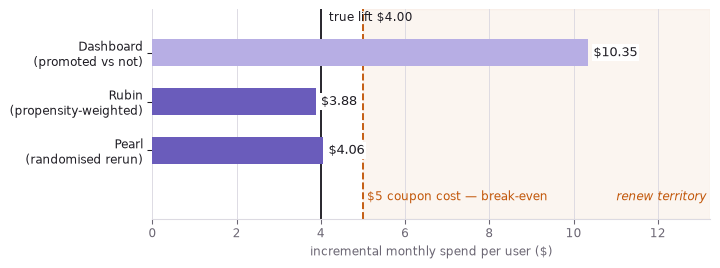
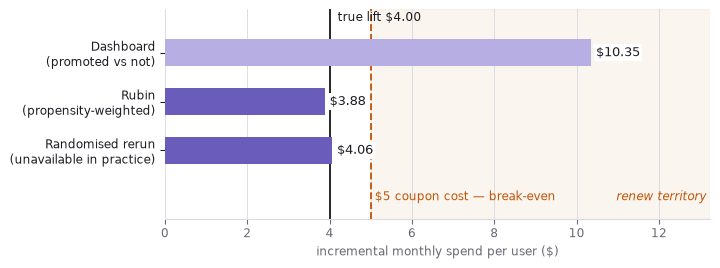
fix(posts): stop the causality post overstating its own numbers
Review caught seven claims running ahead of the simulation. The two that
mattered: the coupon's cost was stated per redemption but compared against
lift per user sent, and the $10k credited to a blanket rollout is sampling
noise around a true effect of exactly zero. The rest tighten estimates
stated as facts, identification claimed where efficiency was meant, and a
chart labelling a randomised rerun as Pearl's estimator.

diff --git a/docs/posts/causality-from-toddlers-to-do-calculus/index.html b/docs/posts/causality-from-toddlers-to-do-calculus/index.html
@@ -250,13 +250,13 @@ pre > code.sourceCode > span > a:first-child::before { text-decoration: underlin
 <section id="time-is-causalitys-most-reliable-symptom-not-its-essence" class="level2">
 <h2 class="anchored" data-anchor-id="time-is-causalitys-most-reliable-symptom-not-its-essence">Time is causality’s most reliable symptom, not its essence</h2>
 <p>The toolkit leans hard on one regularity: causes come first. Hume built his account on it, defining a cause as constant conjunction plus temporal priority plus contiguity. Modern accounts drop it. Pearl’s causes are fixed by structural equations, Woodward’s by what stays invariant under intervention; in both the essential relation is dependence — change the cause, the effect follows — with time order nowhere in the definition.</p>
-<p>The gap shows where nothing waits. A book resting on a table causes the tabletop’s deformation <em>now</em>: pressure and sag are simultaneous, as equilibrium models in economics assume. Temporal order remains the best-behaved symptom of causation we have, and every method below exploits it. It just isn’t what causation is.</p>
+<p>The gap shows where nothing waits. A book resting on a table causes the tabletop’s deformation <em>now</em>: pressure and sag are simultaneous, as equilibrium models in economics assume. Temporal order remains the best-behaved symptom of causation we have, and the methods below lean on it in one specific place — deciding which variables count as pre-treatment, and so which are safe to adjust for. It just isn’t what causation is.</p>
 </section>
 <section id="two-dashboard-numbers-and-the-budget-riding-on-each" class="level2">
 <h2 class="anchored" data-anchor-id="two-dashboard-numbers-and-the-budget-riding-on-each">Two dashboard numbers, and the budget riding on each</h2>
 <p>Dependence under intervention is the thing to measure, then, and measuring it is expensive enough that nobody funds it out of curiosity. Everything below runs on one company and two numbers somebody is about to act on.</p>
 <p>Picture a consumer subscription app: roughly two million monthly actives, about $30 of spend per user per month across subscriptions and in-app add-ons, and a growth team three weeks out from quarterly planning.</p>
-<p><strong>The promotion.</strong> Marketing sent a $5-off coupon to 400,000 users across the November and December window. The coupon is not free — it costs roughly $5 of margin in every month a user redeems it — so finance’s rule for renewing the $2M annual promo budget is a single comparison: the programme pays for itself only if it <em>adds</em> more than $5 of monthly spend per user. Treating incremental spend as near-pure margin is generous to the promo; it is the assumption its defenders would choose, and the promo will lose anyway. The dashboard says promoted users spend $10.35 more per month.</p>
+<p><strong>The promotion.</strong> Marketing sent a $5-off coupon to 400,000 users across the November and December window. It applies automatically at checkout, so it costs roughly $5 of margin per recipient per month whether or not the recipient noticed it — which makes finance’s rule for renewing the $2M annual promo budget a single comparison: the programme pays for itself only if it <em>adds</em> more than $5 of monthly spend per user <em>sent</em>. Treating incremental spend as near-pure margin is generous to the promo; it is the assumption its defenders would choose, and the promo will lose anyway. The dashboard says promoted users spend $10.35 more per month.</p>
 <p><strong>The feature.</strong> “Collections” — saved, curated lists — shipped to everyone four months ago, and about half the userbase has touched it. Three decisions ride on its measured lift: whether next quarter’s engineering goes into deepening it or into the checkout redesign, whether the onboarding flow spends one of its few slots pushing it, and, quietly, which team gets credited at review time. The dashboard says adopters spend $9.26 more per month.</p>
 <p>Both numbers are correct, in the sense that the SQL is correct. Neither is the number either decision needs.</p>
 <p>No real company is being reported on here: every figure below comes from a simulation whose code is on the page. That is not a convenience, it is the only way to grade the methods. The quantity all of them estimate — what a user would have spent under the treatment they did not get — is missing from every real dataset by construction, so a real dataset can tell you which estimator you <em>like</em> but never which one is right. Writing the true effect down first and then hiding it is the only experiment available.</p>
@@ -333,7 +333,7 @@ Confounder
 <section id="pearl-the-surgery-deletes-the-arrow-into-the-promo" class="level3">
 <h3 class="anchored" data-anchor-id="pearl-the-surgery-deletes-the-arrow-into-the-promo">Pearl: the surgery deletes the arrow into the promo</h3>
 <p>The graph is a claim, not a result, so the way to test it is to build a world that obeys it. Below a promo truly adds $4 of monthly spend. We run the same world twice, changing only who gets the promo: first marketing chooses, then a coin does.</p>
-<div id="e4b447c5" class="cell" data-execution_count="1">
+<div id="5a934428" class="cell" data-execution_count="1">
 <details class="code-fold">
 <summary>Code</summary>
 <div class="sourceCode cell-code" id="cb1"><pre class="sourceCode python code-with-copy"><code class="sourceCode python"><span id="cb1-1"><a href="#cb1-1" aria-hidden="true" tabindex="-1"></a><span class="im">import</span> networkx <span class="im">as</span> nx</span>
@@ -402,7 +402,7 @@ Counterfactual
 </div>
 </div>
 <p>Randomisation would make the missing column <em>ignorable</em>: coin-flip assignment leaves the groups differing only by chance, so group averages stand in for each other. Absent the coin, you argue for a weaker version — treatment is as good as random <em>among users alike on the holiday flag</em> — which is precisely what Pearl’s graph already licensed by naming <code>{holiday}</code> as a set that blocks the backdoor. Inverse propensity weighting cashes that licence in.</p>
-<div id="662730bc" class="cell" data-execution_count="2">
+<div id="ccc34b62" class="cell" data-execution_count="2">
 <details class="code-fold">
 <summary>Code</summary>
 <div class="sourceCode cell-code" id="cb3"><pre class="sourceCode python code-with-copy"><code class="sourceCode python"><span id="cb3-1"><a href="#cb3-1" aria-hidden="true" tabindex="-1"></a><span class="im">from</span> sklearn.linear_model <span class="im">import</span> LogisticRegression</span>
@@ -452,7 +452,7 @@ propensity-weighted: 3.88</code></pre>
 </div>
 </div>
 <p>Plotting the estimates against that $5 line makes the sign change visible: everything the adjustment does is move the programme from one side of a decision boundary to the other.</p>
-<div id="42f604a2" class="cell" data-execution_count="3">
+<div id="a26f2da0" class="cell" data-execution_count="3">
 <details class="code-fold">
 <summary>Code</summary>
 <div class="sourceCode cell-code" id="cb5"><pre class="sourceCode python code-with-copy"><code class="sourceCode python"><span id="cb5-1"><a href="#cb5-1" aria-hidden="true" tabindex="-1"></a><span class="im">import</span> matplotlib.pyplot <span class="im">as</span> plt</span>
@@ -496,7 +496,7 @@ propensity-weighted: 3.88</code></pre>
 <span id="cb5-39"><a href="#cb5-39" aria-hidden="true" tabindex="-1"></a></span>
 <span id="cb5-40"><a href="#cb5-40" aria-hidden="true" tabindex="-1"></a></span>
 <span id="cb5-41"><a href="#cb5-41" aria-hidden="true" tabindex="-1"></a>estimate_chart(</span>
-<span id="cb5-42"><a href="#cb5-42" aria-hidden="true" tabindex="-1"></a>    [<span class="st">"Dashboard</span><span class="ch">\n</span><span class="st">(promoted vs not)"</span>, <span class="st">"Rubin</span><span class="ch">\n</span><span class="st">(propensity-weighted)"</span>, <span class="st">"Pearl</span><span class="ch">\n</span><span class="st">(randomised rerun)"</span>],</span>
+<span id="cb5-42"><a href="#cb5-42" aria-hidden="true" tabindex="-1"></a>    [<span class="st">"Dashboard</span><span class="ch">\n</span><span class="st">(promoted vs not)"</span>, <span class="st">"Rubin</span><span class="ch">\n</span><span class="st">(propensity-weighted)"</span>, <span class="st">"Randomised rerun</span><span class="ch">\n</span><span class="st">(unavailable in practice)"</span>],</span>
 <span id="cb5-43"><a href="#cb5-43" aria-hidden="true" tabindex="-1"></a>    [dashboard, ipw_promo, do_estimate],</span>
 <span id="cb5-44"><a href="#cb5-44" aria-hidden="true" tabindex="-1"></a>    truth<span class="op">=</span>TRUE_LIFT,</span>
 <span id="cb5-45"><a href="#cb5-45" aria-hidden="true" tabindex="-1"></a>    truth_label<span class="op">=</span><span class="ss">f"true lift $</span><span class="sc">{</span>TRUE_LIFT<span class="sc">:.2f}</span><span class="ss">"</span>,</span>
@@ -510,7 +510,7 @@ propensity-weighted: 3.88</code></pre>
 <div class="quarto-figure quarto-figure-center">
 <figure class="figure">
 <p><img src="index_files/figure-html/cell-4-output-1.png" class="img-fluid figure-img" alt="Horizontal bar chart of three promo estimates. The dashboard gap at $10.35 sits right of the $5 break-even line; the propensity-weighted estimate at $3.88 and the randomised rerun at $4.06 sit left of it, next to the true $4.00 lift."></p>
-<figcaption>Three readings of the same December, against the coupon’s own cost. Only the unadjusted one clears break-even.</figcaption>
+<figcaption>Two readings of December against the coupon’s own cost, plus the randomised rerun nobody gets to run. Only the unadjusted reading clears break-even.</figcaption>
 </figure>
 </div>
 </div>
@@ -539,7 +539,7 @@ propensity-weighted: 3.88</code></pre>
 <section id="pearl-the-graph-says-engagement-is-enough-and-says-why" class="level3">
 <h3 class="anchored" data-anchor-id="pearl-the-graph-says-engagement-is-enough-and-says-why">Pearl: the graph says engagement is enough, and says why</h3>
 <p>Read the backdoor rule off that picture. There is one path from <code>adopted</code> to <code>spend</code> that starts with an arrow pointing <em>into</em> <code>adopted</code> — via engagement — and conditioning on engagement blocks it. No other path qualifies, so <code>{engagement}</code> is a sufficient adjustment set, and the effect of adopting is identified as the <em>adjustment formula</em>: average the outcome model over the population, once with everyone set to adopt and once with nobody adopting. Implemented directly, that is g-computation.</p>
-<div id="471097b2" class="cell" data-execution_count="4">
+<div id="84809501" class="cell" data-execution_count="4">
 <details class="code-fold">
 <summary>Code</summary>
 <div class="sourceCode cell-code" id="cb6"><pre class="sourceCode python code-with-copy"><code class="sourceCode python"><span id="cb6-1"><a href="#cb6-1" aria-hidden="true" tabindex="-1"></a><span class="im">from</span> sklearn.linear_model <span class="im">import</span> LinearRegression</span>
@@ -575,12 +575,12 @@ propensity-weighted: 3.88</code></pre>
 adjustment formula   : 2.44</code></pre>
 </div>
 </div>
-<p>The adjustment formula returns $2.44 where the dashboard read $9.26, and the true lift is $2.50. Notice what the graph contributed: not the estimate, but the permission to compute one, plus the fact that engagement alone was enough and no further covariate would help. What it did not supply is a second opinion on the arithmetic.</p>
+<p>The adjustment formula returns $2.44 where the dashboard read $9.26, and the true lift is $2.50. Notice what the graph contributed: not the estimate, but the permission to compute one, plus the fact that engagement alone closes every backdoor, so no further covariate is needed to remove bias. Others might still be worth measuring — a covariate that predicts spend tightens the estimate even when it changes nothing about identification — but that is a question about variance, and the graph is silent on it. What the graph also did not supply is a second opinion on the arithmetic.</p>
 </section>
 <section id="rubin-weighting-arrives-at-the-same-place-from-the-other-side" class="level3">
 <h3 class="anchored" data-anchor-id="rubin-weighting-arrives-at-the-same-place-from-the-other-side">Rubin: weighting arrives at the same place from the other side</h3>
 <p>Potential outcomes give one. Instead of modelling the <em>outcome</em> and averaging over the population, model the <em>treatment</em> and reweight the population — each user counted by the reciprocal of their probability of landing in the cohort they landed in, so that engagement stops predicting adoption in the weighted world.</p>
-<div id="a5478e43" class="cell" data-execution_count="5">
+<div id="2a1ee9b5" class="cell" data-execution_count="5">
 <details class="code-fold">
 <summary>Code</summary>
 <div class="sourceCode cell-code" id="cb8"><pre class="sourceCode python code-with-copy"><code class="sourceCode python"><span id="cb8-1"><a href="#cb8-1" aria-hidden="true" tabindex="-1"></a>X <span class="op">=</span> engagement[:, <span class="va">None</span>]</span>
@@ -602,7 +602,7 @@ adjustment formula   : 2.44</code></pre>
 <section id="what-the-roadmap-turns-on-is-a-ranking-not-a-threshold" class="level3">
 <h3 class="anchored" data-anchor-id="what-the-roadmap-turns-on-is-a-ranking-not-a-threshold">What the roadmap turns on is a ranking, not a threshold</h3>
 <p>The feature decision is not go/no-go — Collections is already shipped and costs nothing to leave alone. It is a queue. Next quarter has one engineering slot and one onboarding slot, and the other contender is a checkout redesign whose $3.10 lift came out of an actual randomised test and needs no argument at all.</p>
-<div id="ad483309" class="cell" data-execution_count="6">
+<div id="77ec1684" class="cell" data-execution_count="6">
 <details class="code-fold">
 <summary>Code</summary>
 <div class="sourceCode cell-code" id="cb10"><pre class="sourceCode python code-with-copy"><code class="sourceCode python"><span id="cb10-1"><a href="#cb10-1" aria-hidden="true" tabindex="-1"></a>NEXT_BEST <span class="op">=</span> <span class="fl">3.10</span>  <span class="co"># checkout redesign, measured in a clean A/B test</span></span>
@@ -652,7 +652,7 @@ adjustment formula   : 2.44</code></pre>
 </div>
 </div>
 <p>The backdoor <code>adopted ← life change → spend</code> is open and conditioning on engagement does nothing to it, so Pearl’s verdict is not “adjust harder” but “not identified”: no function of this data returns the causal effect. The instructive part is what the estimators do when you run them anyway.</p>
-<div id="9fb5fd32" class="cell" data-execution_count="7">
+<div id="f676ba90" class="cell" data-execution_count="7">
 <details class="code-fold">
 <summary>Code</summary>
 <div class="sourceCode cell-code" id="cb11"><pre class="sourceCode python code-with-copy"><code class="sourceCode python"><span id="cb11-1"><a href="#cb11-1" aria-hidden="true" tabindex="-1"></a>rng <span class="op">=</span> np.random.default_rng(<span class="dv">11</span>)</span>
@@ -694,8 +694,8 @@ true lift            : 2.5</code></pre>
 </section>
 <section id="platforms-dont-want-the-average-effect-they-want-yours" class="level2">
 <h2 class="anchored" data-anchor-id="platforms-dont-want-the-average-effect-they-want-yours">Platforms don’t want the average effect, they want yours</h2>
-<p>Suppose the growth team had run the feature properly, splitting users into experimental groups before launch. That buys a clean average effect and stops there — frequently the least useful number, because the third question was never about the average. Below the feature helps newcomers and mildly irritates veterans, so the two cancel and the honest reading of the experiment is “ship nothing”. Fitting one model per arm and differencing at each user recovers the split that the average buried.</p>
-<div id="44a3ecd3" class="cell" data-execution_count="8">
+<p>Suppose the growth team had run the feature properly, splitting users into experimental groups before launch. That buys a clean average effect and stops there — frequently the least useful number, because the third question was never about the average. Below the feature helps newcomers exactly as much as it costs veterans, so the two cancel and the honest reading of the experiment is “ship nothing”. Fitting one model per arm and differencing at each user recovers the split that the average buried.</p>
+<div id="c60306dd" class="cell" data-execution_count="8">
 <details class="code-fold">
 <summary>Code</summary>
 <div class="sourceCode cell-code" id="cb13"><pre class="sourceCode python code-with-copy"><code class="sourceCode python"><span id="cb13-1"><a href="#cb13-1" aria-hidden="true" tabindex="-1"></a><span class="im">from</span> sklearn.ensemble <span class="im">import</span> RandomForestRegressor</span>
@@ -732,8 +732,8 @@ longest-tenured quartile: -0.49
 share with positive lift: 0.49</code></pre>
 </div>
 </div>
-<p>An average of one cent described nobody: the newest quartile gains 56 cents a month, the longest-tenured loses 49, and shipping to everyone spends the second to buy the first. Plotting the per-user estimate against tenure shows how completely the average hides the shape it came from.</p>
-<div id="141c3b4d" class="cell" data-execution_count="9">
+<p>An average of one cent described nobody: the model puts the newest quartile at 56 cents a month and the longest-tenured at minus 49, against a truth of plus and minus 45 — the direction and the split are right, the magnitudes run hot, for reasons the end of this section makes precise. Shipping to everyone spends the second group to buy the first. Plotting the per-user estimate against tenure shows how completely the average hides the shape it came from.</p>
+<div id="0f434204" class="cell" data-execution_count="9">
 <details class="code-fold">
 <summary>Code</summary>
 <div class="sourceCode cell-code" id="cb15"><pre class="sourceCode python code-with-copy"><code class="sourceCode python"><span id="cb15-1"><a href="#cb15-1" aria-hidden="true" tabindex="-1"></a>order <span class="op">=</span> np.argsort(tenure)</span>
@@ -789,7 +789,7 @@ share with positive lift: 0.49</code></pre>
 <section id="caveat-the-uplift-model-overstates-its-own-win" class="level3">
 <h3 class="anchored" data-anchor-id="caveat-the-uplift-model-overstates-its-own-win">Caveat: the uplift model overstates its own win</h3>
 <p>The obvious way to size the prize is to add up the predicted effects of the users you chose to treat. That number is inflated, and by the post’s own mechanism: those users were chosen <em>because</em> their estimate came out high, so the selection keeps the upward noise and discards the downward. It is the winner’s curse, and the simulation can price it.</p>
-<div id="e58b403c" class="cell" data-execution_count="10">
+<div id="40656217" class="cell" data-execution_count="10">
 <details class="code-fold">
 <summary>Code</summary>
 <div class="sourceCode cell-code" id="cb16"><pre class="sourceCode python code-with-copy"><code class="sourceCode python"><span id="cb16-1"><a href="#cb16-1" aria-hidden="true" tabindex="-1"></a>AUDIENCE <span class="op">=</span> <span class="dv">2_000_000</span>  <span class="co"># monthly actives</span></span>
@@ -812,7 +812,7 @@ best possible gate    : 304602
 ship to everyone      : 10025</code></pre>
 </div>
 </div>
-<p>Read off the estimates, the gate promises about $394k a month. It delivers $272k — a real win against the roughly $10k that shipping to everyone is worth, but a third less than advertised, and only $32k short of what a gate with perfect knowledge could have managed. The gap between $394k and $272k is not a bug in the method; it is the same error the promo and the feature made, arriving one level up. A number computed from the same estimates that chose the audience is not evidence about that audience, and a product manager who books $394k against this rollout will miss the quarter by $122k.</p>
+<p>Read off the estimates, the gate promises about $394k a month. It delivers $272k — a real win against shipping to everyone, which by construction is worth exactly nothing (the generating process cancels; the $10k the last line prints is sampling noise on eight thousand users, and flips sign with the seed) — but a third less than advertised, and only $32k short of what a gate with perfect knowledge could have managed. The gap between $394k and $272k is not a bug in the method; it is the same error the promo and the feature made, arriving one level up. A number computed from the same estimates that chose the audience is not evidence about that audience, and a product manager who books $394k against this rollout will miss the quarter by $122k.</p>
 <p>What none of these figures price is the standing cost of the gate itself: two product experiences to design, support, document and eventually reconcile, forever. That cost is real, it is not in the experiment, and it is the part of the decision that stays the manager’s judgement rather than the model’s.</p>
 </section>
 </section>

diff --git a/docs/index.html b/docs/index.html
@@ -225,7 +225,7 @@ Reading Time
 </tr>
 </thead>
 <tbody class="list">
[2 lines of base64/hex data omitted]
 <td>
 <span class="listing-image"><img loading="lazy" src="./posts/causality-from-toddlers-to-do-calculus/cover.png" style="height: 40px;"></span>
 </td>
@@ -236,7 +236,7 @@ Reading Time
 <a href="./posts/causality-from-toddlers-to-do-calculus/index.html" class="title listing-title">How Causality Works: From Toddlers to Do-Calculus</a>
 </td>
 <td>
-<span class="listing-reading-time">27 min</span>
+<span class="listing-reading-time">28 min</span>
 </td>
 </tr>
 <tr data-index="1" data-categories="TExNJTJDRXZhbHVhdGlvbiUyQ0FJJTIwRW5naW5lZXJpbmc=" data-listing-date-sort="1786338000000" data-listing-file-modified-sort="1786378841929" data-listing-date-modified-sort="NaN" data-listing-reading-time-sort="8" data-listing-word-count-sort="1564" data-listing-title-sort="Wiring an Eval Pipeline to the Claude API" data-listing-filename-sort="index.qmd">
